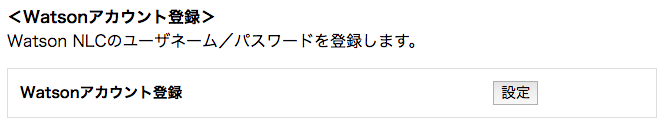
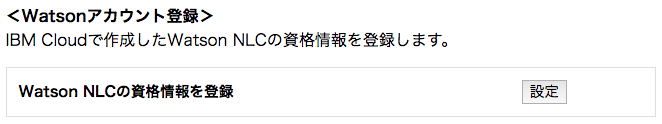
BM Cloudの認証方式がAPIKeyに変更さたことへ対応しました。

diff --git a/admin_set.php b/admin_set.php
@@ -32,13 +32,46 @@ if ($_SESSION['auth'] !== true) {
 		}
 ?>
 			<div class="main_area">
-				<h3>Watson NLCのユーザネーム／パスワードを登録</h3>
+				<h3>Watson NLCの資格情報を登録</h3>
 				<table class="conf_table">
 					<tr>
-						<th>ユーザーネーム</th><td><input type="text" name="username" id="_username" size="40" value="<?php echo $result["w_username"]; ?>"></td>
+						<th>認証方式を選ぶ</th>
+						<td>
+							<?php 
+							if ($result["w_username"] == 'apikey') {
+								echo '<input type="radio" name="auth_type" id="apikey" value="apikey" checked> API鍵　　';
+								echo '<input type="radio" name="auth_type" id="idpass" value="idpass"> ユーザーネーム／パスワード';
+							} else {
+								echo '<input type="radio" name="auth_type" id="apikey" value="apikey"> API鍵　　';
+								echo '<input type="radio" name="auth_type" id="idpass" value="idpass" checked> ユーザーネーム／パスワード';
+							}
+							?>
+						</td>
 					</tr>
 					<tr>
-						<th>パスワード</th><td><input type="password" name="password" id="_password" size="40" value="<?php echo $result["w_password"]; ?>"></td>
+						<?php 
+						if ($result["w_username"] == 'apikey') {
+							echo '<th id="label_username">ラベル（変更不可）</th>';
+							echo '<td><input type="text" name="username" id="_username" size="40" value="apikey" disabled="true"></td>';
+						} else {
+							echo '<th id="label_username">ユーザーネーム</th>';
+							echo '<td><input type="text" name="username" id="_username" size="40" value="';
+							echo $result["w_username"];
+							echo '"></td>';
+						}
+						?>
+					</tr>
+					<tr>
+						<?php 
+						if ($result["w_username"] == 'apikey') {
+							echo '<th id="label_password">API鍵</th>';
+						} else {
+							echo '<th id="label_password">パスワード</th>';
+						}
+						?>
+						<td>
+							<input type="password" name="password" id="_password" size="40" value="<?php echo $result["w_password"]; ?>">
+						</td>
 					</tr>
 					<tr>
 						<td colspan="2"><button id="submit">登録する</button></td>
@@ -62,10 +95,10 @@ if ($_SESSION['auth'] !== true) {
 				        if(status == 'success') {
 				        	//alert(data);
 				        	if (data == 1) {
-				        		alert("Watson NLCのユーザネーム／パスワードを登録しました。");
+				        		alert("Watson NLCの資格情報を登録しました。");
 				        		location.href = "/<?php echo BASE; ?>/?page=admin_menu";
 				        	} else {
-				        		alert("Watson NLCのユーザネーム／パスワードの登録に失敗しました。");
+				        		alert("Watson NLCの資格情報の登録に失敗しました。");
 				        		location.href = "/<?php echo BASE; ?>/?page=admin_menu";
 				        	}
 				        } else {
@@ -73,120 +106,23 @@ if ($_SESSION['auth'] !== true) {
 				        }
 					});
 				});
+				document.getElementById('apikey').addEventListener('click', function (evt) {
+					document.getElementById('label_username').innerHTML = 'ラベル（変更不可）';
+					document.getElementById('_username').setAttribute('value','apikey');
+					document.getElementById('_username').setAttribute('disabled','true');
+
+					document.getElementById('label_password').innerHTML = 'API鍵';
+					document.getElementById('_password').setAttribute('value','');
+				});
+				document.getElementById('idpass').addEventListener('click', function (evt) {
+					document.getElementById('label_username').innerHTML = 'ユーザーネーム';
+					document.getElementById('_username').setAttribute('value','');
+					document.getElementById('_username').removeAttribute('disabled');
+
+					document.getElementById('label_password').innerHTML = 'パスワード';
+					document.getElementById('_password').setAttribute('value','');
+				});
 			</script>
-<?php
-	//} else if($_GET["task"] == "image_upload") {
-?>
-			<!--div class="main_area">
-				<h3>トップ画像をアップロード</h3>
-				<p class="ope_description">
-					プレビュー画面の上部に表示される画像をアップロードします。ファイル名は何であってもかまいません。
-					ファイルタイプは「PNG」のみ利用可能です。
-					画像サイズは、幅：600ピクセル（固定）、高さ：120ピクセル（任意）です。
-				</p>
-				<form>
-					<table class="conf_table">
-						<tr>
-							<th>ニュースIDを選ぶ</th>
-							<td><?php //echo get_news_id_as_select($mysqli, null, 'top_image'); ?></td>
-						</tr>
-						<tr>
-							<th>画像ファイルを選ぶ</th>
-							<td><input type="file" id="add_top_image" name="add_top_image" accept="image/png"></td>
-						</tr>
-						<tr>
-							<th></th>
-							<td><button type="button" onclick="top_image_upload()">アップロード</button></td>
-						</tr>
-					</table>
-				</form>
-
-				<br><br>
-
-				<h3>カテゴリー画像をアップロード</h3>
-				<p class="ope_description">
-					プレビュー画像のカテゴリ見出しに表示させる画像をアップロードします。
-					ファイル名は、該当する「カテゴリ リスト ID」に登録したファイル名と整合させてください。
-					画像サイズは、幅：360ピクセル（任意）、高さ：70ピクセル（固定）です。
-					カテゴリー画像を用意しない場合は、デフォルトの「画像＋テキスト」が使用されます。
-				</p>
-				<form>
-					<table class="conf_table">
-						<tr>
-							<th>ニュースIDを選ぶ</th>
-							<td><?php //echo get_news_id_as_select($mysqli, null, 'category_icon'); ?></td>
-						</tr>
-						<tr>
-							<th>画像ファイルを選ぶ（複数選択可）</th>
-							<td><input type="file" id="add_category_icons" name="add_category_icons[]" accept="image/*,.png,.jpg,.jpeg,.gif" multiple></td>
-						</tr>
-						<tr>
-							<th></th>
-							<td><button type="button" onclick="category_icons_upload()">アップロード</button></td>
-						</tr>
-					</table>
-				</form>
-			</div>
-			<br><br>
-			<div>
-				<a href="/<?php //echo BASE; ?>/?page=admin_menu"><button>戻る</button></a>
-			</div-->
-
-			<!--script>
-				function top_image_upload() {
-					if ($("#top_image").val() == '-- 未選択 --' || $("#top_image").val() == '') {
-						alert("ニュースIDを選んでください。");
-						return;
-					} else if($("#add_top_image").prop("files")[0] === undefined) {
-						alert("画像ファイルを選んでください。");
-						return;
-					}
-				    var fd = new FormData();
-				    fd.append("file", $("#add_top_image").prop("files")[0]);
-				    fd.append("news_id", $("#top_image").val());
-				    $.ajax({
-				        url  : "admin_manage.php",
-				        type : "POST",
-				        data : fd,
-				        contentType : false,
-				        processData : false,
-				    })
-				    .done(function(data, textStatus, jqXHR){
-				        alert(data);
-				    })
-				    .fail(function(jqXHR, textStatus, errorThrown){
-				        alert("fail " + textStatus);
-				    });
-				}
-				function category_icons_upload() {
-					if ($("#category_icon").val() == '-- 未選択 --' || $("#category_icon").val() == '') {
-						alert("ニュースIDを選んでください。");
-						return;
-					} else if($("#add_category_icons").prop("files")[0] === undefined) {
-						alert("画像ファイルを選んでください。");
-						return;
-					}
-				    var fd = new FormData();
-					var files = $("#add_category_icons").prop("files");
-					for (var i=0; i<files.length; i++) {
-						fd.append("file[]", files[i]);
-					}				    
-				    fd.append("news_id", $("#category_icon").val());
-				    $.ajax({
-				        url  : "admin_manage.php",
-				        type : "POST",
-				        data : fd,
-				        contentType : false,
-				        processData : false,
-				    })
-				    .done(function(data, textStatus, jqXHR){
-				        alert(data);
-				    })
-				    .fail(function(jqXHR, textStatus, errorThrown){
-				        alert("fail " + textStatus);
-				    });
-				}
-			</script-->
 <?php
 	} else {
 		echo "<br><br>パラメータが不正です。";

diff --git a/doc/quickstart.php b/doc/quickstart.php
@@ -22,6 +22,34 @@ if ($_SESSION['auth'] == true) {
 						<p>初めてSBNewsを使うために必要な初期設定を説明します。この作業を行えるのは、<b>管理者ユーザー</b>に限られます。</p>
 
 						<ol>
+							<li class="docu_h1">Watson NLCのサービス取得
+								<div>
+<p>
+	SBNewsを使い始める事前準備として、Watson NLCのサービスを作成し資格情報であるAPI鍵を取得します。<a href="https://cloud.ibm.com/" target="_blank">IBM Cloud</a>にログインします。
+</p>
+<div class="capture_area"><img src="../images/doc/quick/ibmcloud_login.png"></div>
+<p>
+	IBM CloudアカウントのIBMidとパスワードを入力してログインします。
+</p>
+<div class="capture_area"><img src="../images/doc/quick/ibmcloud_nlc.png"></div>
+<p>
+	ログインしたら、画面上部の①「カタログ」をクリック、続いて左ペインから②「AI」をクリックして、メインの画面に表示されるカタログのリストから
+	③「Natural Language Classifier」を見つけて、クリックします。
+</p>
+<div class="capture_area"><img src="../images/doc/quick/ibmcloud_create.png"></div>
+<p>
+	「デプロイする地域/ロケーションの選択」や「タグ」を設定したら、画面下の「作成」ボタンをクリックする。これで、Watson NLCを利用する準備ができます。
+	この画面を下までスクロールするとWatson NLCの価格プランを参照できますので、確認しておくことをお勧めします。
+</p>
+<div class="capture_area"><img src="../images/doc/quick/ibmcloud_apikey.png"></div>
+<p>
+	NLCサービスを作成すると、上記の画面に遷移します。左ペインの「管理」をクリックして、「資格情報」を表示させます。
+	「API鍵」欄の右端の書類アイコンをクリックすると、API鍵（44桁の英数文字）がクリップボードにコピーされますので、テキストファイルなどに保存してください。
+	これで、事前の準備は完了です。
+</p>
+								</div>
+							</li>
+
 							<li class="docu_h1">ログイン
 								<div>
 <p>
@@ -33,14 +61,15 @@ if ($_SESSION['auth'] == true) {
 							<li class="docu_h1">Watson NLCを登録する
 								<div>
 <p>
-	ログインしたら、まず「Watson NLC」の「ユーザーネーム」と「パスワード」を登録します。この操作は初回のみ必要です。
-	「<a href="<?php echo '/'. BASE .'/' ?>?page=admin_menu">管理者メニュー</a>」を開き、「Watsonアカウント登録」の右の
+	ログインしたら、まず「Watson NLC」の資格情報を登録します。この操作は初回のみ必要です。
+	「<a href="<?php echo '/'. BASE .'/' ?>?page=admin_menu">管理者メニュー</a>」を開き、「Watson NLCの資格情報を登録」の右の
 	「設定」ボタンをクリックします。
 </p>
 <div class="capture_area"><img src="../images/doc/quick/admin_menu.png"></div>
 <p>
-	事前に取得しておいた「ユーザーネーム」と「パスワード」を入力し、「登録する」ボタンをクリックします。「Watson NLC」の
-	登録が完了すると、Watsonの頭脳に当たる「分類子」を作成できるようになります。
+	事前に取得しておいたWatson NLCの資格情報の種別にしたがって、「認証方式を選ぶ」で「API鍵」または「ユーザーネーム／パスワード」のいずれかを選択します。
+	「API鍵」、または「ユーザーネーム」と「パスワード」を入力し、「登録する」ボタンをクリックします。
+	「Watson NLC」の登録が完了すると、Watsonの頭脳に当たる「分類子」を作成できるようになります。
 </p>
 <div class="capture_area"><img src="../images/doc/quick/watson_register.png"></div>
 								</div>

diff --git a/watson_management.php b/watson_management.php
@@ -69,6 +69,21 @@ if ($_SESSION['auth'] !== true) {
 			if (! $_POST["username"] || ! $_POST["password"]) {
 				die ("パラメータが不足しています。");
 			}
+			// WatsonNLCのゲートウェイを認証方式に合わせて変更、さらにデータベースのカラム数を拡張（ID/PASSからの移行に対応）
+		    if ($_POST["username"] == "apikey") {
+		    	// GATEWAY for ApiKey        =>  'https://gateway-tok.watsonplatform.net/natural-language-classifier/api/v1/classifiers'
+		    	shell_exec('sed -i "" "s/gateway/gateway-tok/" WatsonNLC.php');
+		    	// change password column 
+		    	$query_altertable = "ALTER TABLE configuration MODIFY w_password VARCHAR(80)";
+		    	$alter_result = $mysqli->query($query_altertable);
+		    	if (! $alter_result) {
+		    		die("error: ALTER TABLE configuration MODIFY w_password");
+		    	}
+		    } else {
+		    	// GATEWAY for Username/Password =>  'https://gateway.watsonplatform.net/natural-language-classifier/api/v1/classifiers'
+		    	shell_exec('sed -i "" "s/gateway-tok/gateway/" WatsonNLC.php');
+		    }
+
 			////// company_idの重複テスト
 			$query_test = "SELECT count(company_id) FROM configuration WHERE company_id = ?";
 			$stmt = $mysqli->prepare($query_test);

diff --git a/index.php b/index.php
@@ -627,7 +627,7 @@ if ($_SESSION['auth'] != true) {
 					} else if ($_SESSION['role'] == 'su') {
 					?>
 						<h4>＜Watsonアカウント登録＞</h4>
-						<p class="ope_description wide">Watson NLCのユーザー名／パスワードは、管理者ユーザーが設定します。</p>
+						<p class="ope_description wide">Watson NLCの資格情報は、管理者ユーザーが設定します。</p>
 						<table class="ope_table">
 						<tr><td> -- </td></tr>
 						</table>
@@ -636,11 +636,11 @@ if ($_SESSION['auth'] != true) {
 					} else {
 					?>
 						<h4>＜Watsonアカウント登録＞</h4>
-						<p class="ope_description">Watson NLCのユーザネーム／パスワードを登録します。
+						<p class="ope_description">IBM Cloudで作成したWatson NLCの資格情報を登録します。
 						</p>
 						<table class="ope_table">
 						<tr>
-						<th>Watsonアカウント登録</th>
+						<th>Watson NLCの資格情報を登録</th>
 						<td><a href="<?php echo '/' . BASE . '/' ?>admin_set.php?page=admin_menu&task=watson_account"><button>設定</button></a></td>
 						</tr>
 						</table>

diff --git a/WatsonNLC.php b/WatsonNLC.php
@@ -1,6 +1,6 @@
 <?php
 
-define('W_GATEWAY',  'https://gateway.watsonplatform.net/natural-language-classifier/api/v1/classifiers');
+define('W_GATEWAY',  'https://gateway-tok.watsonplatform.net/natural-language-classifier/api/v1/classifiers');
 
 class WatsonNLC {
 
